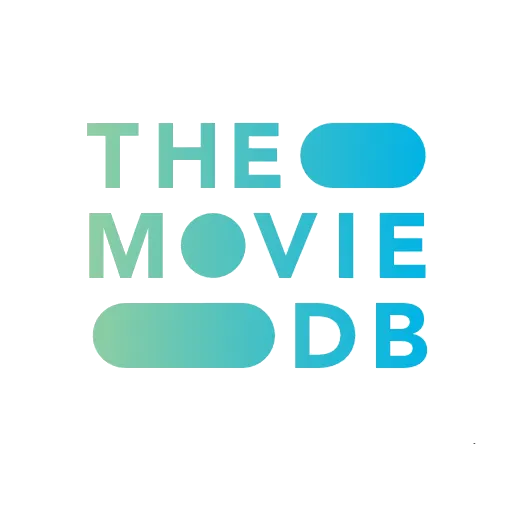
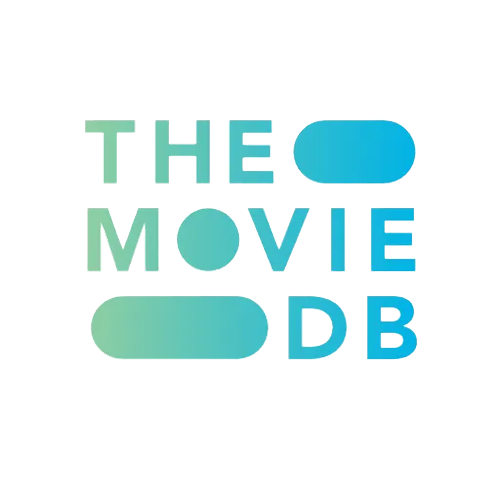
feat - minor improvment

diff --git a/public/css/app.css b/public/css/app.css
@@ -10849,15 +10849,23 @@ textarea.form-control-lg {
   }
 }
 header {
+  height: 5rem;
+  margin-bottom: 10rem;
   background-color: #032541;
 }
 
 nav {
+  height: 5rem;
   background-color: #032541;
 }
 
 .navbar-brand {
   font-size: 2em;
+}
+
+#logo {
+  width: 6rem;
+  height: 6rem;
 }
 
 .card {

diff --git a/resources/sass/partials/_header.scss b/resources/sass/partials/_header.scss
@@ -1,3 +1,19 @@
 header {
+    height: 5rem;
+    margin-bottom: 10rem;
     background-color: #032541;
+}
+
+nav {
+    height: 5rem;
+    background-color: #032541;
+}
+
+.navbar-brand {
+    font-size: 2em;
+}
+
+#logo {
+    width: 6rem;
+    height: 6rem;
 }

diff --git a/resources/sass/app.scss b/resources/sass/app.scss
@@ -2,7 +2,6 @@
 @import "node_modules/bootstrap/scss/bootstrap";
 
 @import "./partials/_header";
-@import "./partials/_navBar";
 @import "./partials/_movieCard";
 
 body {

diff --git a/resources/sass/partials/_hero.scss b/resources/sass/partials/_hero.scss
@@ -1,0 +1,3 @@
+#hero {
+    background-image: url();
+}

diff --git a/resources/views/includes/header.blade.php b/resources/views/includes/header.blade.php
@@ -1,12 +1,12 @@
 <header>
-    <nav class="navbar-dark container navbar navbar-expand-lg">
+    <nav class="navbar-dark container navbar navbar-expand-lg mb-5">
         <div class="container">
-          <img src="{{ asset('public/assets/moviedb.png') }}" alt="logo">
-          <a class="navbar-brand" href="{{route ('movieHomepage')}}">Movie DB</a>
+          <a  href="{{route ('movieHomepage')}}"><img id="logo" src="{{ asset('/assets/img/moviedb.png') }}" alt="logo"></a>
+          
           <button class="navbar-toggler" type="button" data-bs-toggle="collapse" data-bs-target="#navbarNavAltMarkup" aria-controls="navbarNavAltMarkup" aria-expanded="false" aria-label="Toggle navigation">
             <span class="navbar-toggler-icon"></span>
           </button>
-          <div class="collapse navbar-collapse" id="navbarNavAltMarkup">
+          <div class="collapse navbar-collapse ms-4" id="navbarNavAltMarkup">
             <div class="navbar-nav fw-bold">
               <a class="nav-link " aria-current="page" href="#">Best Movies</a>
               <a class="nav-link" href="#">Choose by genre</a>

diff --git a/resources/views/includes/movieCard.blade.php b/resources/views/includes/movieCard.blade.php
@@ -1,7 +1,7 @@
-<div class="container">
+<div class="container mt-5">
     <div class="row">
         @forelse ($movies as $movie)
-            <div class="card col-4 p-2 m-2">
+            <div class="card col-4 p-3 m-2">
                 <img src="{{ $movie->poster }}" class="card-img-top"
                     alt="cover">
                 <div class="card-body">

diff --git a/resources/views/includes/hero.blade.php b/resources/views/includes/hero.blade.php
@@ -1,0 +1,7 @@
+<div id="hero">
+    <h1>
+        Welcome.
+        Millions of movies, TV shows and people to discover. Explore now.
+    </h1>
+    <img src="" alt="">
+</div>

diff --git a/resources/views/layouts/main-template.blade.php b/resources/views/layouts/main-template.blade.php
@@ -12,8 +12,8 @@
 <body>
     @include('includes.header')
     <main>
+        @include('includes.hero')
           @include('includes.movieCard')
- 
 
     </main>
 
